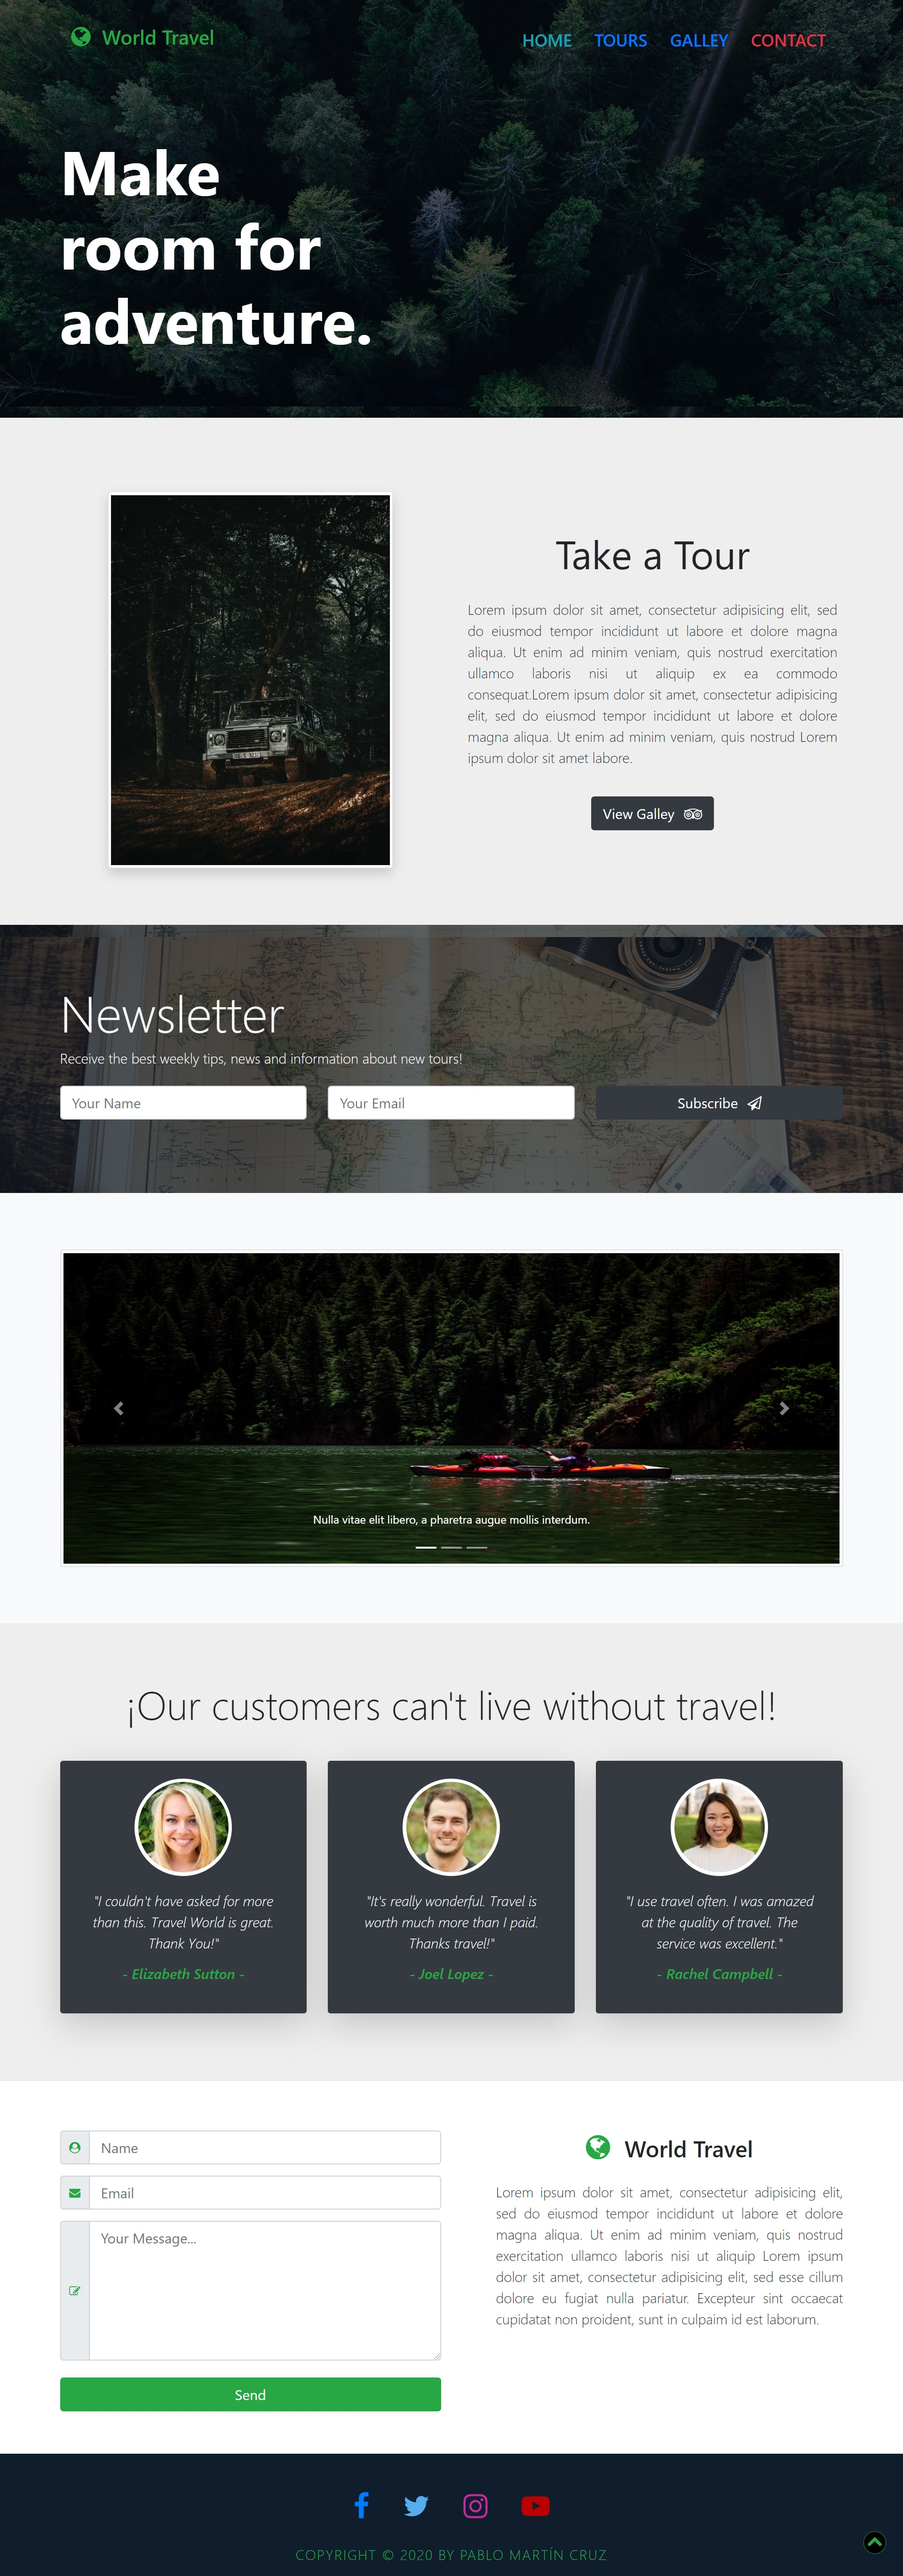
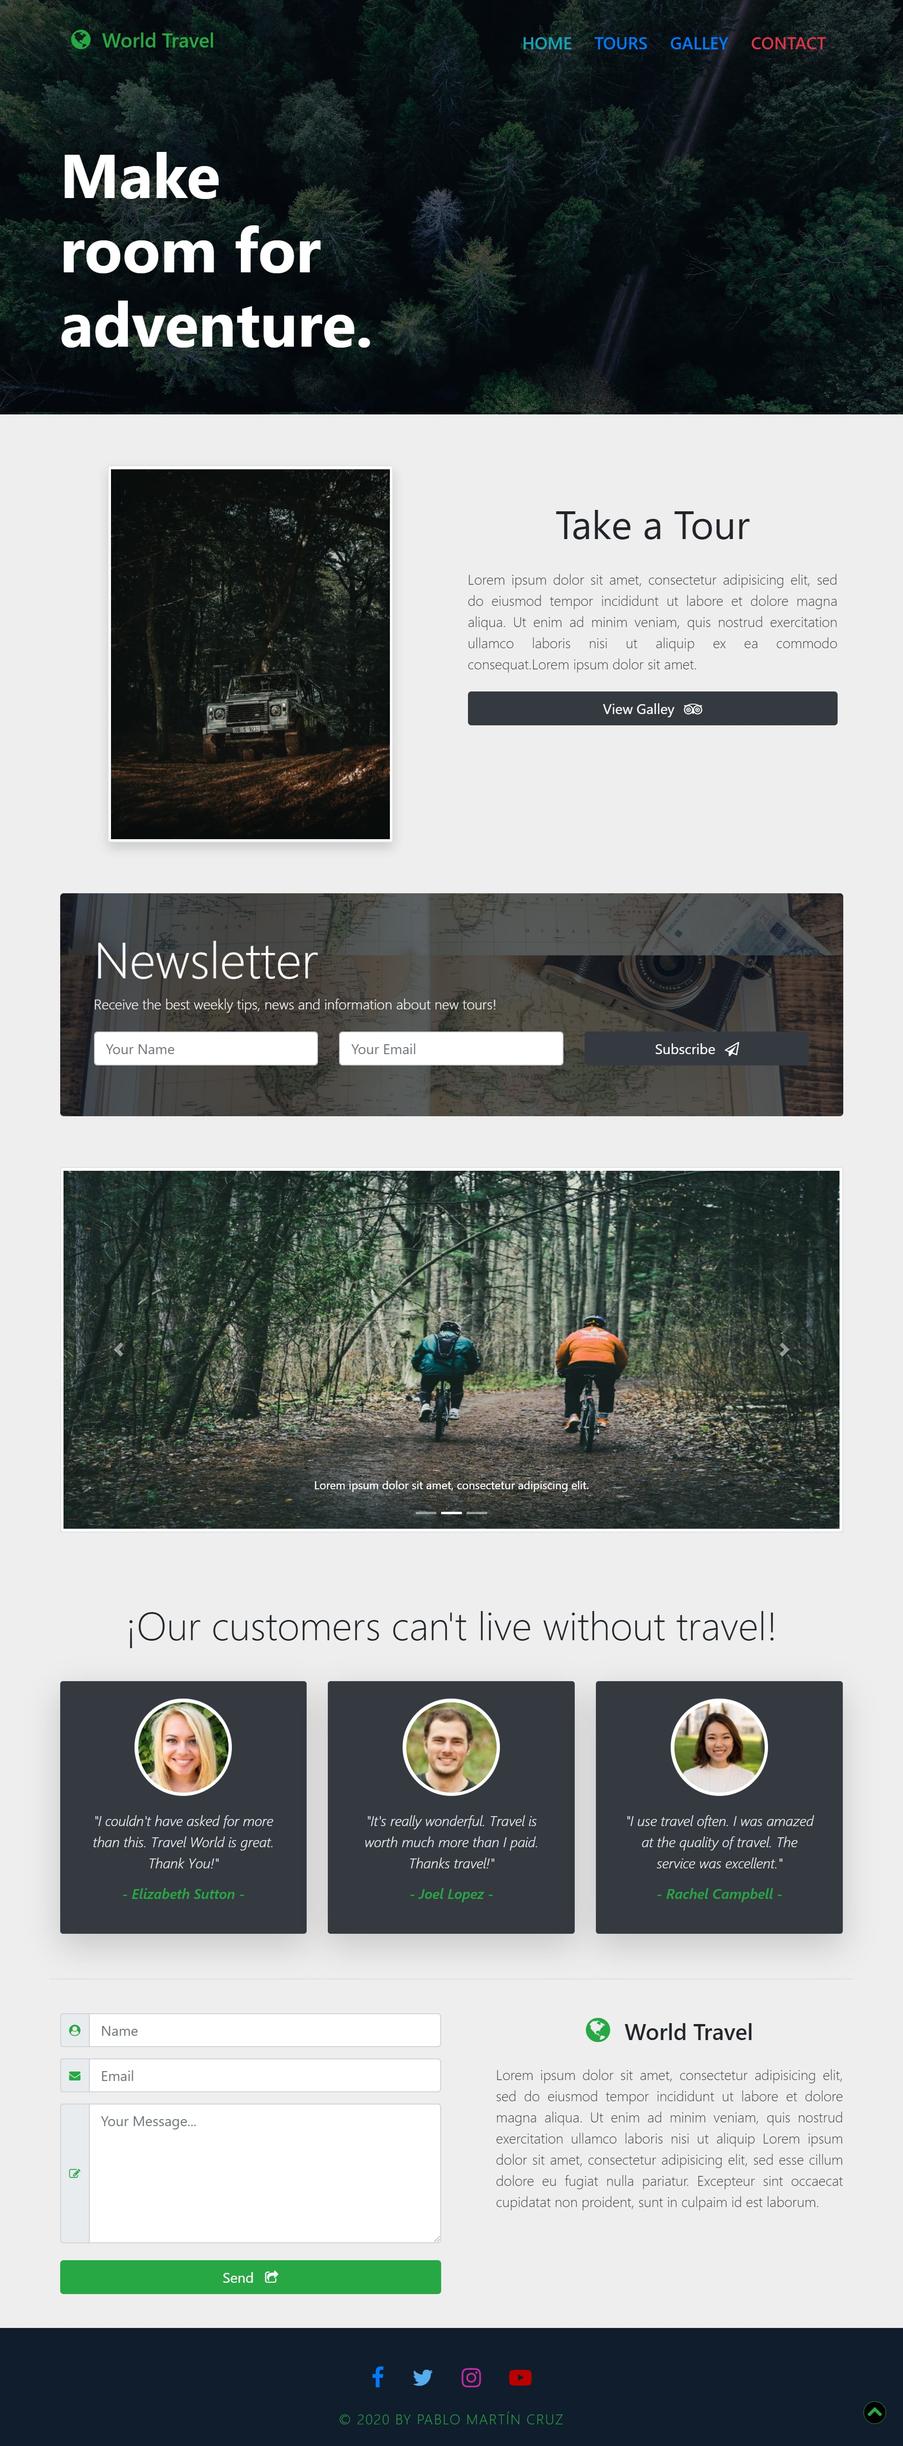
Agrego Modificaciones al Diseño

diff --git a/src/index.html b/src/index.html
@@ -4,6 +4,7 @@
       <meta charset="UTF-8">
       <meta name="viewport" content="width=device-width, initial-scale=1.0">
       <meta http-equiv="X-UA-Compatible" content="ie=edge">
+      <meta property="og:image" content="https://raw.githubusercontent.com/Pablo-MC/world-travel/master/src/img/hero.jpg" />
 
       <link rel="shortcut icon" type="image/x-icon" href="img/favicon.png">
       <!-- FONT-AWESOME -->
@@ -22,7 +23,7 @@
                <a class="navbar-brand text-success" href="/">
                   <i class="fa fa-globe text-success mr-3 h2"></i><span class="h3">World Travel</span>
                </a>
-              <button class="navbar-toggler navbar-light bg-info" type="button" data-toggle="collapse" data-target="#navbarNavAltMarkup" aria-controls="navbarNavAltMarkup" aria-expanded="false" aria-label="Toggle navigation">
+              <button class="navbar-toggler navbar-light bg-info h5" type="button" data-toggle="collapse" data-target="#navbarNavAltMarkup" aria-controls="navbarNavAltMarkup" aria-expanded="false" aria-label="Toggle navigation">
                 <span class="navbar-toggler-icon"></span>
               </button>
               <div class="collapse navbar-collapse text-right" id="navbarNavAltMarkup">
@@ -34,22 +35,23 @@
                   </div>
               </div>
             </nav>
-            <h1 class="display-2 text-white font-weight-bold mt-5 pt-5">Make <br> room for <br> adventure.</h1>
+            <h1 class="d-block d-sm-none display-3 text-white font-weight-bold mt-5 pt-5">Make <br> room for <br> adventure.</h1>
+            <h1 class="d-none d-sm-block display-2 text-white font-weight-bold mt-5 pt-5">Make <br> room for <br> adventure.</h1>
          </div>
       </header>
 
       <!-- TOURS -->
 
       <section id="tours">
-         <div class="container">
+         <div class="container py-5 my-4">
             <div class="row">
                <div class="col-lg-6 text-center">
-                  <img src="img/tour.jpg" class="img-fluid img-thumbnail shadow mt-4 w-75 tours-animation-left" alt="Tour">
+                  <img src="img/tour.jpg" class="img-fluid img-thumbnail shadow w-75 tours-animation-left" alt="Tour">
                </div>
-               <div class="col-lg-6 my-auto">
+               <div class="col-lg-6">
                   <div class="tours-animation-right text-center px-2">
                      <h2 class="display-4 font-weight-normal mt-5">Take a Tour</h2>
-                     <p class="lead text-justify pt-4">Lorem ipsum dolor sit amet, consectetur adipisicing elit, sed do eiusmod tempor incididunt ut labore et dolore magna aliqua. Ut enim ad minim veniam, quis nostrud exercitation ullamco laboris nisi ut aliquip ex ea commodo consequat.Lorem ipsum dolor sit amet, consectetur adipisicing elit, sed do eiusmod tempor incididunt ut labore et dolore magna aliqua. Ut enim ad minim veniam, quis nostrud Lorem ipsum dolor sit amet labore.
+                     <p class="lead text-justify pt-4">Lorem ipsum dolor sit amet, consectetur adipisicing elit, sed do eiusmod tempor incididunt ut labore et dolore magna aliqua. Ut enim ad minim veniam, quis nostrud exercitation ullamco laboris nisi ut aliquip ex ea commodo consequat.Lorem ipsum dolor sit amet.
                      </p>
                      <a class="btn btn-lg btn-dark my-4 d-none d-md-block" href="#gallery">View Galley <i class="fa fa-tripadvisor ml-2"></i></a>
                   </div>
@@ -60,9 +62,10 @@
 
       <!-- NEWSLETTER -->
 
-      <section id="newsletter">
-         <div class="container text-light">
-            <h2 class="display-3">Newsletter</h2>
+      <section class="container">
+         <div class="container newsletter text-light py-5 px-5">
+            <h2 class="d-block d-sm-none display-4">Newsletter</h2>
+            <h2 class="d-none d-sm-block display-3">Newsletter</h2>
             <p class="lead mb-4">Receive the best weekly tips, news and information about new tours!</p>
             <div class="row">
                <div class="col-md-4 mb-2">
@@ -81,7 +84,7 @@
       <!-- GALLERY -->
 
       <section id="gallery">
-         <div class="container py-5 d-none d-md-block ">
+         <div class="container d-none d-md-block py-5 mt-4">
             <div id="carouselExampleCaptions" class="carousel slide" data-ride="carousel">
                <ol class="carousel-indicators">
                   <li data-target="#carouselExampleCaptions" data-slide-to="0" class="active"></li>
@@ -122,9 +125,10 @@
 
       <!-- TESTIMONIAL -->
 
-      <section id="testimonial">
-         <div class="container">
-            <h2 class="display-4 text-center mb-5 testimonial-animation">¡Our customers can't live without travel!</h2>
+      <section>
+         <div class="container border-bottom py-5">
+            <h2 class="d-block d-sm-none display-4 text-center mb-5 testimonial-animation">¡Our customers!</h2>
+            <h2 class="d-none d-sm-block display-4 text-center mb-5 testimonial-animation">¡Our customers can't live without travel!</h2>
             <div class="row">
                <div class="col-lg-4 text-center mb-3">
                   <div class="card bg-dark border-dark shadow-lg p-3 pt-4">
@@ -160,7 +164,7 @@
       <!-- CONTACT -->
 
       <section id="contact">
-         <div class="container">
+         <div class="container py-5">
             <div class="row">
                <div class="col-lg-6">
                   <div class="d-block d-lg-none text-center">
@@ -185,7 +189,7 @@
                         </div>
                         <textarea class="form-control form-control-lg" rows="6" placeholder="Your Message..."></textarea>
                      </div>
-                     <button class="btn btn-success btn-lg btn-block button-animation" type="button">Send</button>
+                     <button class="btn btn-success btn-lg btn-block button-animation" type="button">Send<i class="fa fa-share-square-o ml-3"></i></button>
                   </form>
                </div>
                <div class="col-lg-6 d-none d-lg-block">
@@ -202,14 +206,14 @@
       <!-- FOOTER -->
 
       <footer class="footer">
-         <div class="container">
-            <div class="d-flex justify-content-center h1 mt-4">
-               <div class="p-4"><a href="#"><i class="footer__facebook fa fa-facebook"></i></a></div>
-               <div class="p-4"><a href="#"><i class="footer__twitter fa fa-twitter"></i></a></div>
-               <div class="p-4"><a href="#"><i class="footer__instagram fa fa-instagram"></i></a></div>
-               <div class="p-4"><a href="#"><i class="footer__youtube fa fa-youtube-play"></i></a></div>
+         <div class="container p-4">
+            <div class="d-flex justify-content-center m-auto w-25 h2 p-3">
+               <a href="#"><i class="footer__facebook fa fa-facebook"></i></a>
+               <a href="#"><i class="footer__twitter fa fa-twitter"></i></a>
+               <a href="#"><i class="footer__instagram fa fa-instagram"></i></a>
+               <a href="#"><i class="footer__youtube fa fa-youtube-play"></i></a>
             </div>
-            <p class="footer__copyright lead text-uppercase text-success text-center">Copyright &copy; 2020 by Pablo Martín Cruz</p>
+            <p class="footer__copyright lead text-uppercase text-success text-center m-0">&copy; 2020 by Pablo Martín Cruz</p>
          </div>
       </footer>
 

diff --git a/src/css/main.css b/src/css/main.css
@@ -1,1 +1,1 @@
-::-webkit-scrollbar{width:0}:root{scrollbar-width:none}.header{background-image:linear-gradient(rgba(3,10,18,0.65), rgba(1,8,16,0.6)),url(../img/hero.jpg);background-size:cover;background-attachment:fixed;min-height:100vh;overflow-x:hidden}#tours{background:#eee;padding:80px 0;overflow-x:hidden}#newsletter{padding:80px 0;background-image:linear-gradient(rgba(3,10,18,0.65), rgba(1,8,16,0.6)),url(../img/contact.jpg);background-size:cover;background-attachment:fixed;overflow-x:hidden}#testimonial{background-color:#eee;padding:80px 0;overflow-x:hidden}#gallery{background-color:#f8f9fa;overflow-x:hidden}#contact{padding:70px 0 60px 0;overflow-x:hidden}.footer{background-color:#101D2C;overflow-y:hidden}.footer__facebook{color:#007bff}.footer__twitter{color:#55acee}.footer__instagram{color:#c32aa3}.footer__youtube{color:#bb0000}.footer__copyright{letter-spacing:1.5px}.scrollTop{position:fixed;bottom:80rem;right:1.5rem;width:2rem;height:2rem;background:url(../img/up.svg);background-color:#28a745;border-radius:50%;background-size:2rem;background-position:center;background-repeat:no-repeat;z-index:100000;visibility:hidden;opacity:0;cursor:pointer;transition:4s}.scrollTop.active{bottom:2rem;visibility:visible;opacity:1}
+::-webkit-scrollbar{width:0}:root{scrollbar-width:none}body{background:#eee;overflow-x:hidden}.header{background-image:linear-gradient(rgba(3,10,18,0.65), rgba(1,8,16,0.6)),url(../img/hero.jpg);background-size:cover;background-attachment:fixed;min-height:100vh;overflow-x:hidden}.newsletter{background-image:linear-gradient(rgba(3,10,18,0.65), rgba(1,8,16,0.6)),url(../img/contact.jpg);background-size:cover;background-attachment:fixed;border-radius:5px;overflow-x:hidden}.footer{background-color:#101D2C}.footer__facebook{color:#007bff}.footer__twitter{color:#55acee}.footer__instagram{color:#c32aa3}.footer__youtube{color:#bb0000}.footer__copyright{letter-spacing:1.5px}.footer a{padding:10px 20px}.scrollTop{position:fixed;bottom:80rem;right:1.5rem;width:2rem;height:2rem;background:url(../img/up.svg);background-color:#28a745;border-radius:50%;background-size:2rem;background-position:center;background-repeat:no-repeat;z-index:100000;visibility:hidden;opacity:0;cursor:pointer;transition:4s}.scrollTop.active{bottom:2rem;visibility:visible;opacity:1}

diff --git a/src/scss/main.scss b/src/scss/main.scss
@@ -4,6 +4,10 @@
 ::-webkit-scrollbar { width: 0; }
 :root { scrollbar-width: none; }
 
+body {
+   background: #eee;
+   overflow-x: hidden;
+}
 
 
 /***************************
@@ -15,57 +19,18 @@
    background-attachment: fixed;
    min-height: 100vh;
    overflow-x: hidden;
-   // padding: 20px 0 80px 0;
-}
 
-
-/***************************
-** TOURS */
-
-#tours {
-   background: #eee;
-   padding: 80px 0;
-   overflow-x: hidden;
 }
 
 
 /***************************
 ** NEWSLETTER */
 
-#newsletter {
-   padding: 80px 0;
+.newsletter {
    background-image: linear-gradient(rgba(3, 10, 18, .65), rgba(1, 8 , 16, .60)), url(../img/contact.jpg);
    background-size: cover;
    background-attachment: fixed;
-   overflow-x: hidden;
-
-}
-
-
-/***************************
-** TESTIMONIAL */
-
-#testimonial {
-   background-color: #eee;
-   padding: 80px 0;
-   overflow-x: hidden;
-}
-
-
-/***************************
-** GALLERY */
-
-#gallery {
-   background-color: #f8f9fa;
-   overflow-x: hidden;
-}
-
-
-/***************************
-** CONTACT */
-
-#contact {
-   padding: 70px 0 60px 0;
+   border-radius: 5px;
    overflow-x: hidden;
 }
 
@@ -75,7 +40,6 @@
 
 .footer {
    background-color: #101D2C;
-   overflow-y: hidden;
 
    &__facebook { color: #007bff; }
    &__twitter { color: #55acee; }
@@ -83,6 +47,8 @@
    &__youtube { color: #bb0000; }
 
    &__copyright { letter-spacing: 1.5px; }
+
+   a { padding: 10px 20px; }
 
 }
 
